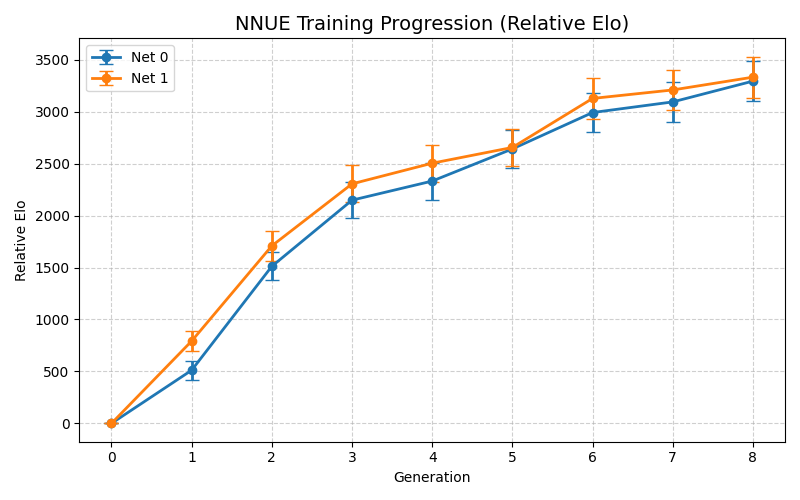
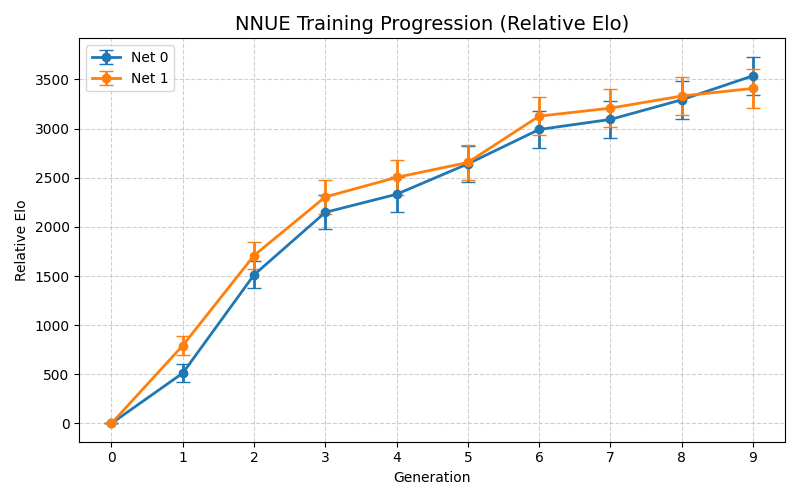
added some documentation for Gen 9 release. bench 343580

diff --git a/src/engine/search/threads.rs b/src/engine/search/threads.rs
@@ -15,16 +15,6 @@ use crate::uci::parser::move_to_uci;
 
 pub struct Threads;
 
-// ---------------------------------------------------------------------------
-// Shared TT pointer — unsafe isolated here and nowhere else.
-//
-// Safety invariant: the TT is owned by Engine which outlives every
-// thread::scope call. Lazy SMP intentionally allows unsynchronised TT reads/writes.
-//
-// The network is &'static (embedded via include_bytes!) so it needs no
-// special treatment — it is always valid and is already Send.
-// ---------------------------------------------------------------------------
-
 struct SharedTt(*const TranspositionTable);
 unsafe impl Send for SharedTt {}
 
@@ -36,8 +26,6 @@ impl SharedTt {
 // ---------------------------------------------------------------------------
 
 impl Threads {
-    /// Blocking search using `thread::scope` — network is &'static so it
-    /// can be captured directly, no unsafe needed for it.
     pub fn search(
         pos:        &Chess,
         engine:     &mut Engine,
@@ -92,12 +80,6 @@ impl Threads {
         stop.store(true, Ordering::Relaxed);
         result
     }
-
-    // -----------------------------------------------------------------------
-    // Pondering — cannot use thread::scope because the thread intentionally
-    // outlives the call site. TT still needs SharedTt; network is &'static
-    // so it's just copied into the closure directly.
-    // -----------------------------------------------------------------------
 
     pub fn start_ponder(
         pos:          Chess,

diff --git a/src/uci/handler.rs b/src/uci/handler.rs
@@ -63,8 +63,7 @@ impl UciHandler {
             UciCommand::Position { fen, moves } => self.on_position(fen, moves),
             UciCommand::Go { wtime, btime, winc, binc, movetime, depth, nodes, ponder }
             => self.on_go(wtime, btime, winc, binc, movetime, depth, nodes, ponder),
-            UciCommand::PonderHit if self.uci.ponder_enabled
-            => self.on_ponderhit(),
+            UciCommand::PonderHit if self.uci.ponder_enabled => self.on_ponderhit(),
             UciCommand::Stop        => self.on_stop(),
             UciCommand::SetOption { name, value } => self.on_setoption(name, value),
             UciCommand::Perft { depth } => self.on_perft(depth),
@@ -87,7 +86,7 @@ impl UciHandler {
     fn on_uci(&self) {
         println!("id name Pea 9.0");
         println!("id author Warre G.");
-        println!("option name Hash type spin default 256 min 1 max 1024");
+        println!("option name Hash type spin default 16 min 1 max 1024");
         println!("option name Threads type spin default 1 min 1 max 128");
         println!("option name Move Overhead type spin default 10 min 0 max 1000");
         println!("option name Ponder type check default false");

diff --git a/src/main.rs b/src/main.rs
@@ -12,7 +12,8 @@ use crate::engine::types::PIECE_VALUES;
 use crate::uci::handler::UciHandler;
 
 fn main() {
-    // bench mode for OpenBench — run a fixed search and exit
+    // bench mode for OpenBench — run a fixed search
+    // Must change to proper bench suite but i am lazy
     if std::env::args().nth(1).as_deref() == Some("bench") {
         let mut engine  = Engine::new();
         let ordering    = MoveOrdering::new(&PIECE_VALUES);

diff --git a/src/engine/utility.rs b/src/engine/utility.rs
@@ -131,8 +131,6 @@ pub fn print_bestmove(
 // SearchContext constructor
 // ---------------------------------------------------------------------------
 
-/// Build a search context. Both the main thread and helper threads use this —
-/// there is no longer a separate `build_main_context` wrapper.
 pub fn build_search_context<'a>(
     tt:           &'a TranspositionTable,
     params:       &'a Params,

diff --git a/CHANGELOG.md b/CHANGELOG.md
@@ -11,10 +11,10 @@ The results for Gen x are always vs Gen x-1. For a more detailed match result se
 
 #### Elo gain per generation
 
-| Net       | Gen 0 | Gen 1               | Gen 2           | Gen 3               | Gen 4              | Gen 5              | Gen 6              | Gen 7              | Gen 8              |
-|-----------|-------|---------------------|-----------------|---------------------|--------------------|--------------------|--------------------|--------------------|--------------------|
-| **Net 0** | 0     | **+511.50 ± 92.45** | **+1000+ ± ?**  | **636.43 ± 109.02** | **183.78 ± 32.42** | **309.24 ± 40.38** | **350.17 ± 47.62** | **102.28 ± 22.59** | **199.96 ± 30.48** |
-| **Net 1** | 0     | **+792.30 ± ?**     | **+916.01 ± ?** | **596.54 ± 106.05** | **198.81 ± 32.13** | **151.58 ± 28.05** | **471.62 ± 69.61** | **81.86 ± 19.71**  | **122.91 ± 25.10** |
+| Net       | Gen 0 | Gen 1               | Gen 2           | Gen 3               | Gen 4              | Gen 5              | Gen 6              | Gen 7              | Gen 8              | Gen 9              |
+|-----------|-------|---------------------|-----------------|---------------------|--------------------|--------------------|--------------------|--------------------|--------------------|--------------------|
+| **Net 0** | 0     | **+511.50 ± 92.45** | **+1000+ ± ?**  | **636.43 ± 109.02** | **183.78 ± 32.42** | **309.24 ± 40.38** | **350.17 ± 47.62** | **102.28 ± 22.59** | **199.96 ± 30.48** | **240.00 ± 33.84** |
+| **Net 1** | 0     | **+792.30 ± ?**     | **+916.01 ± ?** | **596.54 ± 106.05** | **198.81 ± 32.13** | **151.58 ± 28.05** | **471.62 ± 69.61** | **81.86 ± 19.71**  | **122.91 ± 25.10** | **77.74 ± 19.23**  |
 
 The plot below shows the training progression over the generations with error bars. 
 
@@ -38,6 +38,7 @@ The plot below shows the training progression over the generations with error ba
 | Gen 6          | Net0 vs Net1 | **-73.68 ± 19.98**  |
 | Gen 7          | Net0 vs Net1 | **-28.33 ± 12.46**  |
 | Gen 8          | Net0 vs Net1 | **51.25 ± 15.54**   |
+| Gen 9          | Net0 vs Net1 | **210.82 ± 31.99**  |
 ---
 
 #### Elo estimates*
@@ -62,6 +63,8 @@ The plot below shows the training progression over the generations with error ba
 | Net1-Gen7 | 2850 ±  13 |
 | Net0-Gen8 | 2993 ± 7   |
 | Net1-Gen8 | 2963 ± 15  |
+| Net0-Gen9 | 3193 ± 12  |
+| Net1-Gen9 | 3013 ± 8   |
 *Based on match vs different Stash versions (8s+0.08).  
  
 
@@ -476,18 +479,18 @@ Elo: -36.66 +/- 14.71, nElo: -42.79 +/- 17.03
 Games: 1598, Wins: 548, Losses: 716, Draws: 334, Points: 715.0 (44.74 %)
 ```
 
-## 12. Generation 9 (15/04/2026 - ? )
+## 12. Generation 9 (15/04/2026 - 28/05/2026 )
 
 
 
 Training parameters for these runs :
-* Positions : 200M Net 0
-* 5k nodes per position
+* Positions : ~600M Net 0
+* 5k-20k nodes per position
 * Initial LR : 0.0005
 * Final LR : 0.00005
 * ~2 epochs
 * start WDL : 0.05
-* end WDL : 0.10
+* end WDL : 0.10 - 0.80
 
 ### 12.1. Results vs previous generation
 
@@ -495,34 +498,45 @@ Training parameters for these runs :
 #### 12.1.1. Net 0
 
 ```
-
+Results of GEN9 vs GEN8 (8+0.08, 1t, 16MB, UHO_Lichess_4852_v1.epd):
+Elo: 244.00 +/- 33.84, nElo: 346.44 +/- 35.02
+Games: 378, Wins: 255, Losses: 26, Draws: 97, Points: 303.5 (80.29 %)
 ```
 
 #### 12.1.2. Net 1
 
 ```
-
+Results of GEN9 vs GEN8 (8+0.08, 1t, 16MB, UHO_Lichess_4852_v1.epd):
+Elo: 77.74 +/- 19.23, nElo: 101.65 +/- 24.29
+Games: 786, Wins: 345, Losses: 172, Draws: 269, Points: 479.5 (61.01 %)
 ```
 
 
 ### 12.2. Results Net 0 vs Net 1
 
 ```
-
+Results of NET0 vs NET1 (8+0.08, 1t, 16MB, UHO_Lichess_4852_v1.epd):
+Elo: 210.82 +/- 31.99, nElo: 283.08 +/- 33.80
+Games: 406, Wins: 270, Losses: 50, Draws: 86, Points: 313.0 (77.09 %)
 ```
 
 ### 12.3. Elo estimate 
 
 
 
-**Net 0 ~ Elo**
+**Net 0 ~3193 Elo**
 
 ```
-
+Results of GEN9_NET0 vs STASH31-3217 (8+0.08, 1t, 16MB, UHO_Lichess_4852_v1.epd):
+Elo: -25.89 +/- 12.06, nElo: -32.15 +/- 14.92
+Games: 2084, Wins: 752, Losses: 907, Draws: 425, Points: 964.5 (46.28 %)
 ```
 
-**Net 1 ~ Elo**
+**Net 1 ~ 3013 Elo**
 
 ```
-
+Results of GEN9_NET1 vs STASH26-3000 (8+0.08, 1t, 128MB, UHO_Lichess_4852_v1.epd):
+Elo: 13.06 +/- 7.77, nElo: 15.44 +/- 9.17
+Games: 5510, Wins: 2291, Losses: 2084, Draws: 1135, Points: 2858.5 (51.88 %)
 ```
+

diff --git a/README.md b/README.md
@@ -27,7 +27,8 @@ As a Rust beginner, I wanted to focus on search and evaluation first rather than
 Writing my own move generator is on the roadmap and maybe the start of my fourth attempt to make an engine?
 
 I'm currently training two NNUEs from scratch. One with  (768 -> 1536)x2 -> 1x8 (Net 0) and one 
-(768 -> 64)x2 -> 1 (Net 1). They train by constantly playing against eachother and learning from both views of the board. For more information about this progression see the CHANGELOG.md. 
+(768 -> 64)x2 -> 1 (Net 1). For more information about this progression see the CHANGELOG.md. 
+Net 0 will be my main network that will be used in all the future releases and Net 1 will be my experimental network.
 You can play the latest generations of my networks on lichess : [Net 0][lichess-link0], [Net 1][lichess-link1].
 
 The plot below shows the training progression over the generations with error bars:
@@ -118,7 +119,7 @@ Below is a table of Elo estimates from having the engine play against other engi
 | v6.0 (Net 1) | 2811              | 2342                                                                    | 2662                                                                    | 2811                                                                         | /                                                            |
 | v7.0 (Net 1) | 2850              | 2392                                                                    | 2739                                                                    | 2858                                                                         | /                                                            |
 | v8.0 (Net 0) | 2993              | 2507                                                                    | 2869                                                                    | 2996                                                                         | /                                                            |
-| v9.0 (Net 0) |                   |                                                                         |                                                                         |                                                                              | /                                                            |
+| v9.0 (Net 0) | 3193              |                                                                         |                                                                         |                                                                              | /                                                            |
 ---
 
 
@@ -208,10 +209,10 @@ This project is licensed under the [GNU General Public License v3.0][license-lin
 [release-badge]: https://img.shields.io/github/v/release/WGCodings/Pea?style=for-the-badge&color=violet
 [release-link]: https://github.com/WGCodings/Pea/releases/latest
 
-[lichess-badge0]: https://img.shields.io/badge/Play-Net_0_Gen_8-green?logo=lichess&style=for-the-badge
+[lichess-badge0]: https://img.shields.io/badge/Play-Net_0_Gen_9-green?logo=lichess&style=for-the-badge
 [lichess-link0]: https://lichess.org/@/PeaNet0
 
-[lichess-badge1]: https://img.shields.io/badge/Play-Net_1_Gen_8-green?logo=lichess&style=for-the-badge
+[lichess-badge1]: https://img.shields.io/badge/Play-Net_1_Gen_9-green?logo=lichess&style=for-the-badge
 [lichess-link1]: https://lichess.org/@/PeaNet1
 
 <!-- Links -->